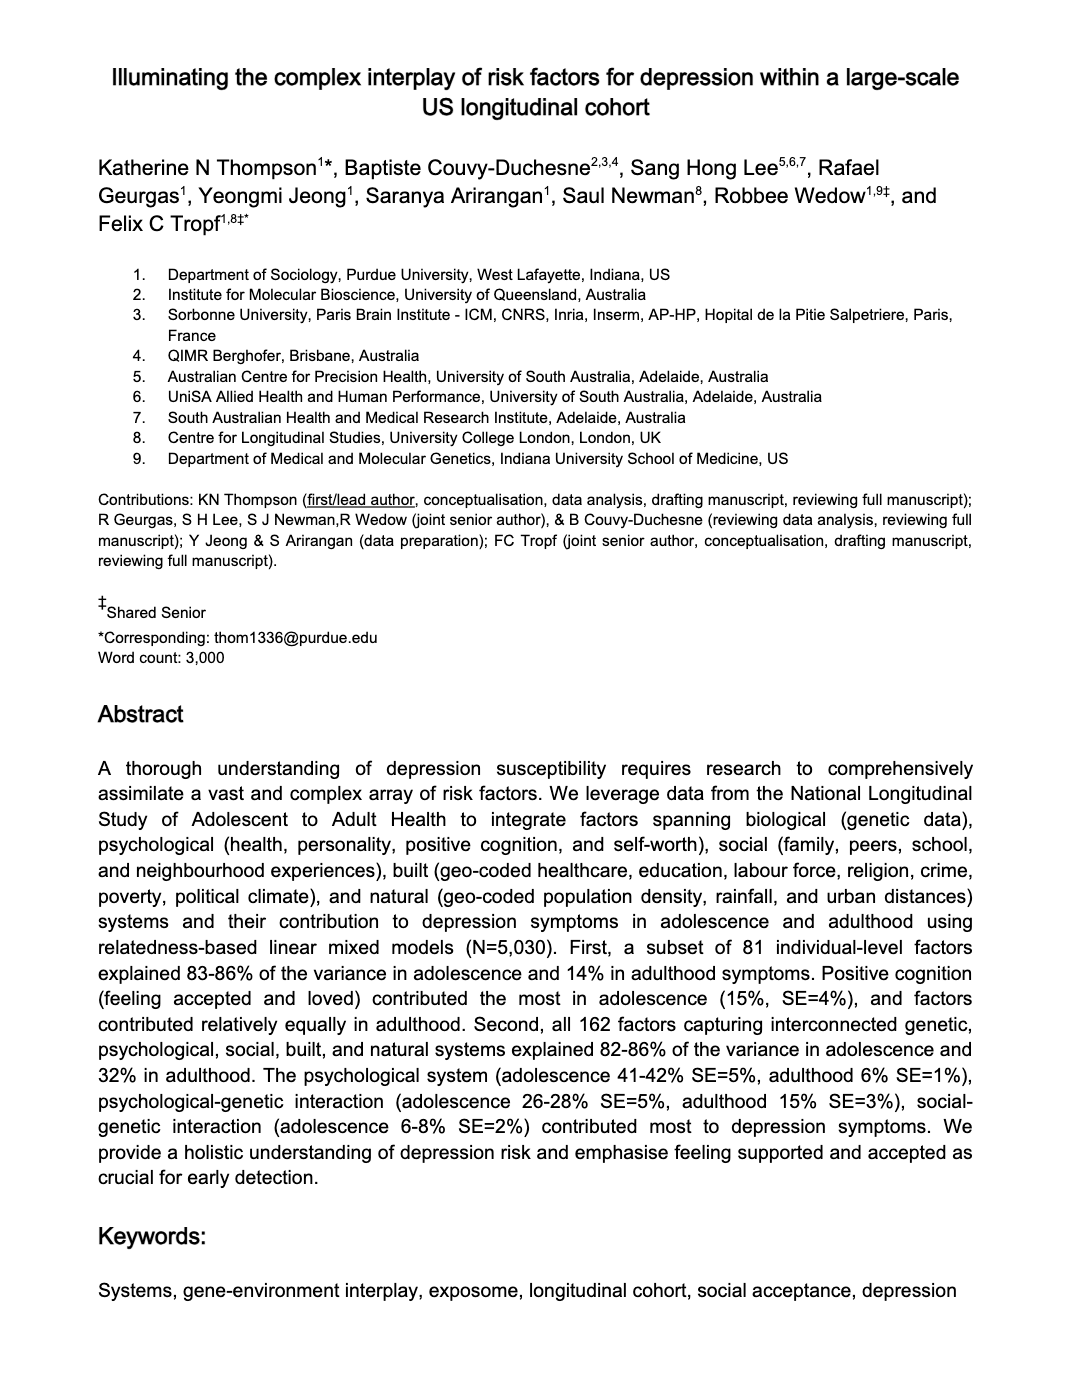
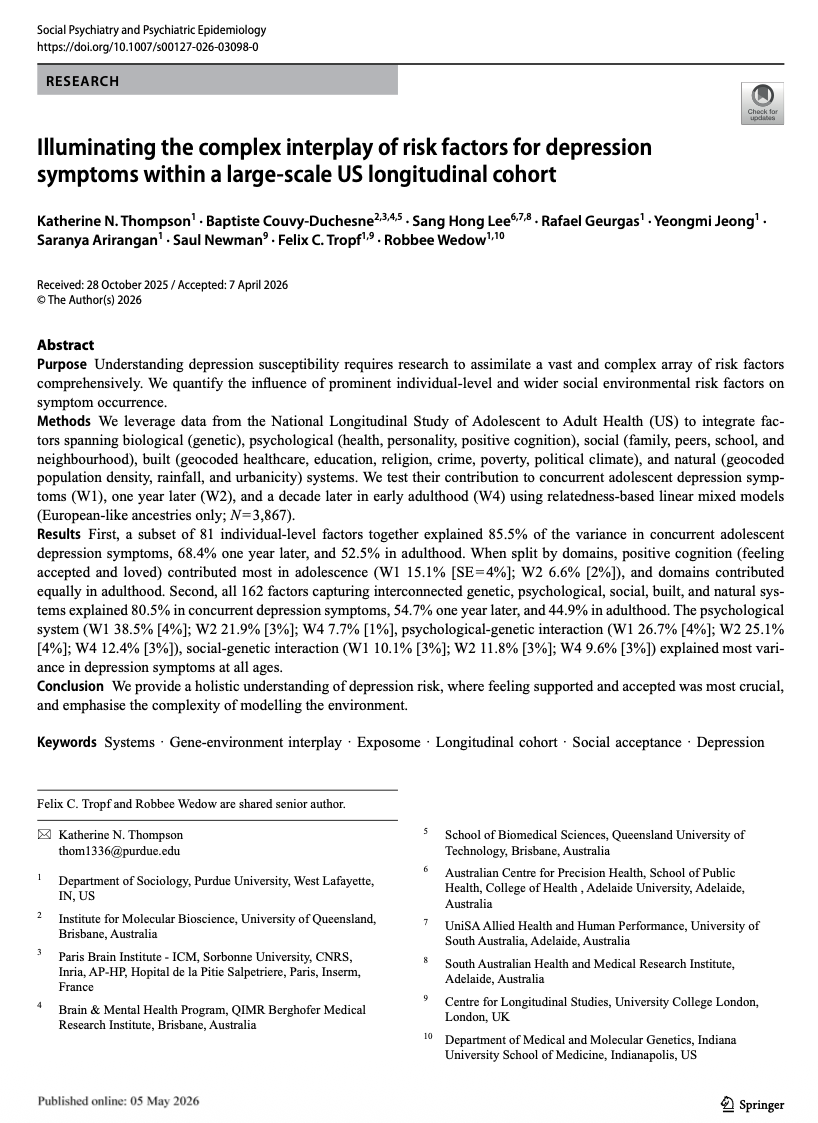
updating SPPE paper link

Changed region(s): [[0.0306, 0.0, 0.978, 0.9662], [0.0611, 0.9662, 0.2445, 0.9973], [0.8863, 0.9662, 0.9474, 0.9973]]

diff --git a/docs/research.html b/docs/research.html
@@ -156,7 +156,7 @@ ul.task-list li input[type="checkbox"] {
 <div class="paper-row">
 <p><a href="https://doi.org/10.1002/da.23213"> <img src="images/D&amp;A.png" class="paper-img"> </a></p>
 <p><a href="https://doi.org/10.1016/j.ssmph.2025.101886"> <img src="images/SSM.png" class="paper-img"> </a></p>
-<p><a href="https://osf.io/preprints/psyarxiv/wf52a_v1"> <img src="images/SPPE.png" class="paper-img"> </a></p>
+<p><a href="https://doi.org/10.1007/s00127-026-03098-0"> <img src="images/SPPE.png" class="paper-img"> </a></p>
 </div>
 </section>
 <section id="genetics-and-society" class="level2">
